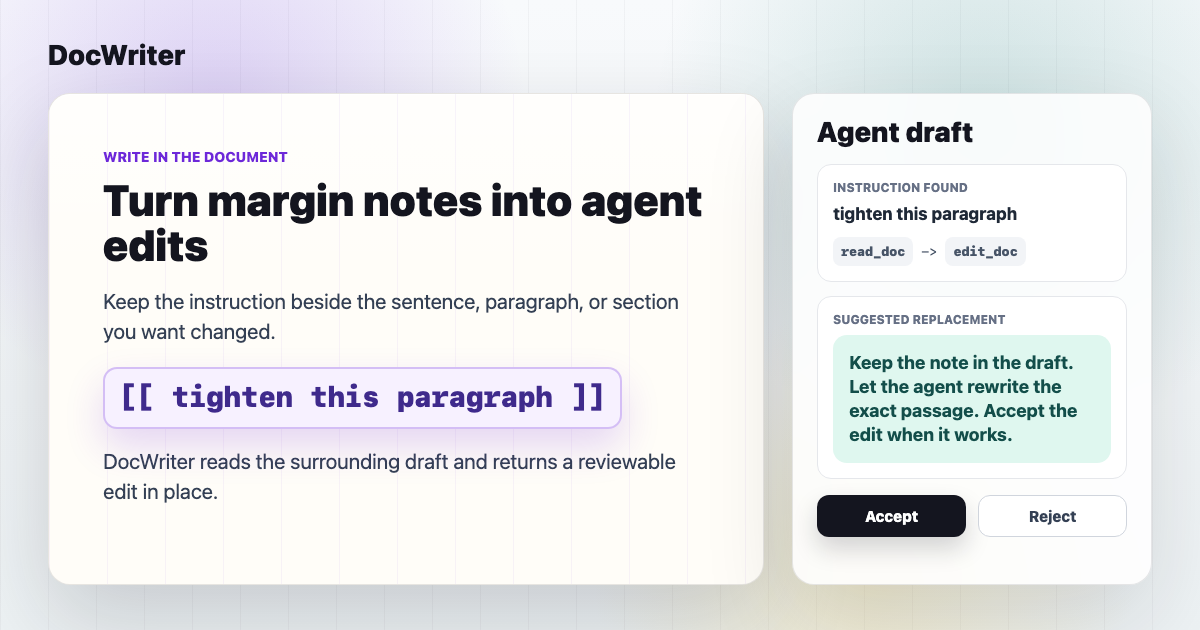
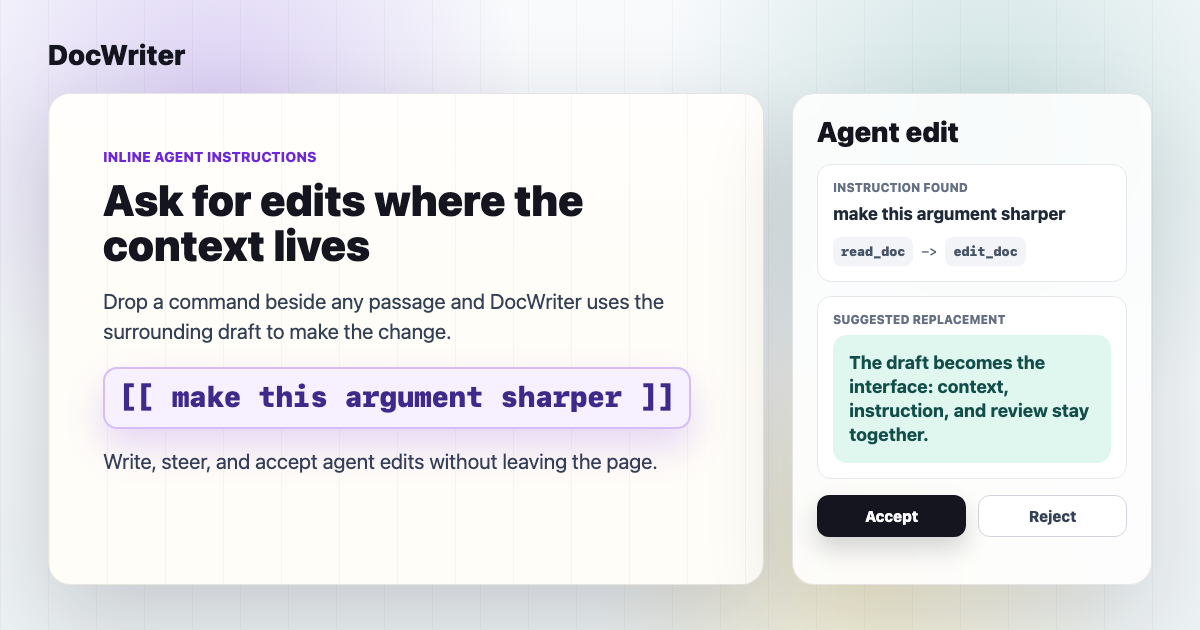
Refine social card copy

diff --git a/social-card.html b/social-card.html
@@ -267,21 +267,21 @@
 		<section class="stage" aria-label="DocWriter social card">
 			<article class="document">
 				<div class="doc-body">
-					<div class="kicker">Write in the document</div>
-					<h1>Turn margin notes into agent edits</h1>
+					<div class="kicker">Inline agent instructions</div>
+					<h1>Ask for edits where the context lives</h1>
 					<div class="copy">
-						<p>Keep the instruction beside the sentence, paragraph, or section you want changed.</p>
-						<p><span class="directive">[[ tighten this paragraph ]]</span></p>
-						<p>DocWriter reads the surrounding draft and returns a reviewable edit in place.</p>
+						<p>Drop a command beside any passage and DocWriter uses the surrounding draft to make the change.</p>
+						<p><span class="directive">[[ make this argument sharper ]]</span></p>
+						<p>Write, steer, and accept agent edits without leaving the page.</p>
 					</div>
 				</div>
 			</article>
 
 			<aside class="agent">
-				<h2>Agent draft</h2>
+				<h2>Agent edit</h2>
 				<div class="agent-step">
 					<div class="step-label">Instruction found</div>
-					<div class="step-text">tighten this paragraph</div>
+					<div class="step-text">make this argument sharper</div>
 					<div class="tool-chain">
 						<span class="tool">read_doc</span>
 						<span>-&gt;</span>
@@ -290,7 +290,7 @@
 				</div>
 				<div class="agent-step">
 					<div class="step-label">Suggested replacement</div>
-					<div class="suggestion">Keep the note in the draft. Let the agent rewrite the exact passage. Accept the edit when it works.</div>
+					<div class="suggestion">The draft becomes the interface: context, instruction, and review stay together.</div>
 				</div>
 				<div class="actions">
 					<div class="action primary">Accept</div>
